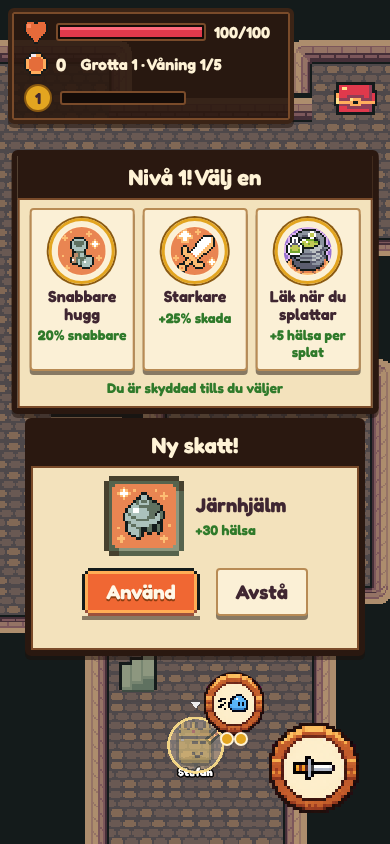
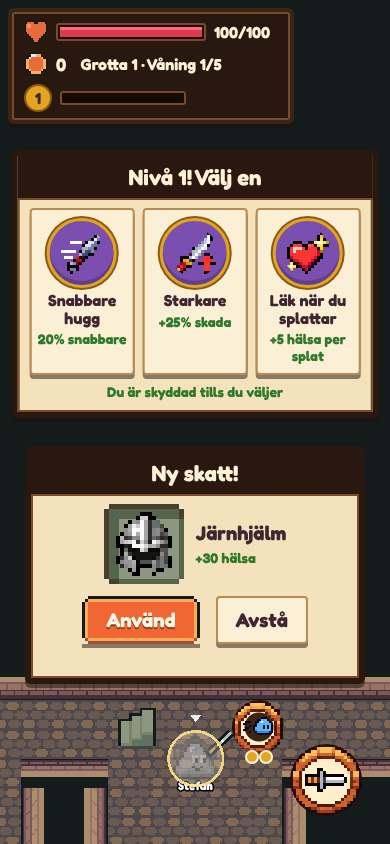
fix(dungeon): landscape level-up cards dock top-left under the HUD and the loot card bottom-centre (the blob stays visible); dark centre disc behind the small round button's symbol
Claude-Session: https://claude.ai/code/session_019PjhQxMPAQdpZt3g1GZEuX

diff --git a/blobz/src/dungeon.css b/blobz/src/dungeon.css
@@ -305,3 +305,14 @@ body.dgflow #hud > :not(#hud-dg):not(#attack):not(#dash):not(#stick):not(#dg-ko)
 .skcard[data-cls='tank'] { --badge: #b0503a; }
 .lootnew .dgicon, #dg-loot-items > .dgicon { border-radius: 0; }
 @media (orientation: landscape) and (max-height: 500px) { .skcard .dgicon { width: 36px; height: 36px; padding: 6px; } }
+
+/* landscape docking (Lead): the level-up cards sit top-left under the HUD (my blob stands right of centre, so they never
+   cover it); the loot card sits bottom-centre between them and the round buttons (the camera lifts my blob above it) */
+@media (orientation: landscape) and (max-height: 500px) {
+  #dg-cards { top: calc(max(8px, env(safe-area-inset-top)) + 92px); left: max(8px, env(safe-area-inset-left)); right: auto; transform: none; width: 354px; min-width: 0; }
+  #dg-loot { left: calc(max(8px, env(safe-area-inset-left)) + 364px); right: auto; bottom: 8px; width: 300px; }
+}
+/* the small round button: a dark centre disc behind the light N-12 symbol (contrast on the cream ring face) */
+#hud.dungeon #dash { background-image: radial-gradient(circle, #3b2416 0 14px, transparent 15px), url('/art/dungeon/ui/btn-round-normal-18.png'); background-size: auto, 54px 54px; }
+#hud.dungeon #dash:active { background-image: radial-gradient(circle, #2a1810 0 14px, transparent 15px), url('/art/dungeon/ui/btn-round-pressed-18.png'); }
+#hud.dungeon #dash.cd { background-image: radial-gradient(circle, #3b2416 0 14px, transparent 15px), url('/art/dungeon/ui/btn-round-disabled-18.png'); }
